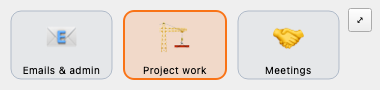
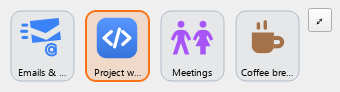
Refresh README screenshots for the v2 look
Regenerated all three screenshots with the current UI: TIME TRACKER
ghost-double text logo (the v2 default banner), task cards with coloured
icons (Library blue email, code tile, purple people, brown mug), the
running card highlighted orange with a live total, the daily target bar,
and both mini-mode sizes. Captions and alt text updated to match;
roadmap item ticked.

(Rendered offscreen with Segoe UI / Segoe UI Emoji / Consolas loaded
directly from font files - same trick as the make_assets font guard.)

diff --git a/README.md b/README.md
@@ -25,13 +25,12 @@ because you can only actually do one thing at a time (controversial, we know).
 ## 📸 What it looks like
 
 <p align="center">
-  <img src="docs/main_window.png" alt="Main window: arcade banner, task cards, one running task highlighted orange" width="440">
+  <img src="docs/main_window.png" alt="Main window: TIME TRACKER text logo, task cards with coloured icons, the running task highlighted orange" width="440">
 </p>
 
 Each task lives in its own card. The running task glows orange and its
-"today" total ticks up live. (Screenshots show the optional arcade
-banner; out of the box v2 wears the quieter **TIME TRACKER** text logo —
-the invaders are one Settings dropdown away.)
+"today" total ticks up live. That's the default **TIME TRACKER** text
+logo up top — the arcade invaders are one Settings dropdown away.
 
 ## ✨ Features (many, many, many of them)
 
@@ -66,8 +65,8 @@ the invaders are one Settings dropdown away.)
   shows on the task cards, mini-mode buttons, tray menu, and the cube
   side-mapping dropdowns.
 
-  <img src="docs/mini_compact.png" alt="Mini mode, compact: emoji only" height="72">
-  <img src="docs/mini_expanded.png" alt="Mini mode, enlarged: emoji plus task name and time" height="150">
+  <img src="docs/mini_compact.png" alt="Mini mode, compact: icon buttons with short labels" height="72">
+  <img src="docs/mini_expanded.png" alt="Mini mode, enlarged: icons plus task name and today's time" height="150">
 - ⏱️ **Cumulative daily timers** — every click adds to *today's* total for
   that task, displayed live to the second.
 - 🎯 **Single-active tracking** — starting a task stops the running one. No
@@ -400,8 +399,8 @@ before anyone sits at the Windows box.
 - [x] 🕹️ TIME TRACKER text logo as the default banner (arcade optional)
 - [x] 📬 Python-free distribution: shareable zip installer + tag-triggered
   GitHub Releases
+- [x] 📸 Refresh the README screenshots for the v2 look
 - [ ] ✍️ Code-sign the builds so SmartScreen/Gatekeeper stop grumbling
-- [ ] 📸 Refresh the README screenshots for the v2 look
 
 ## ❓ FAQ
 